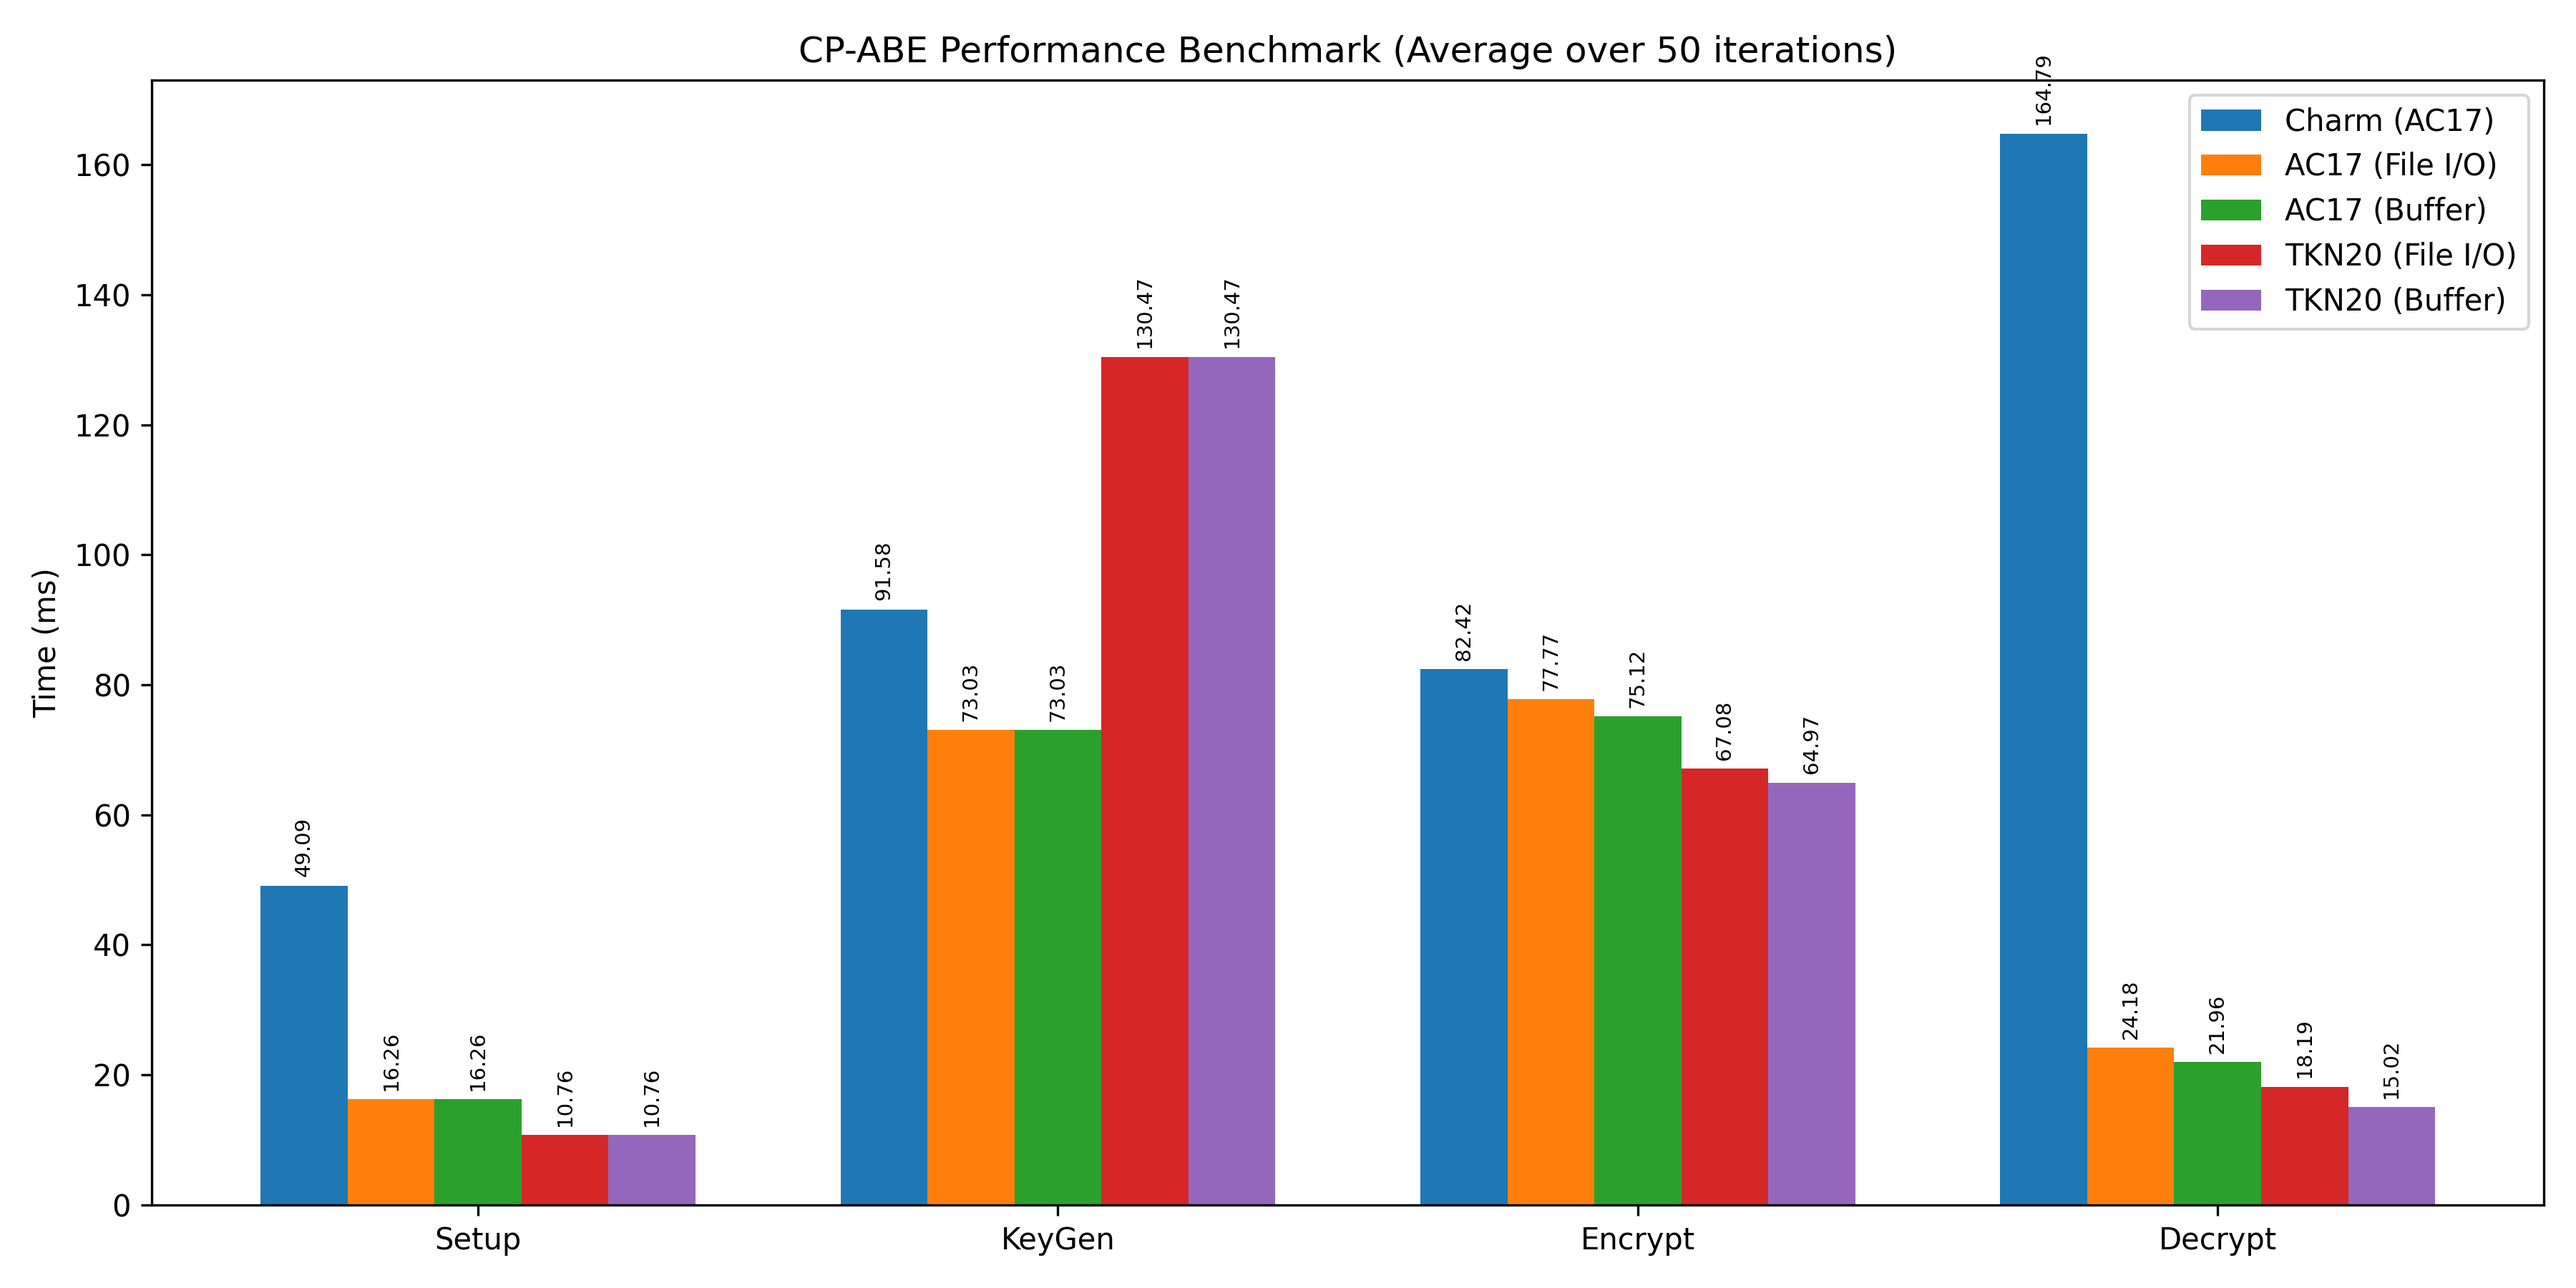
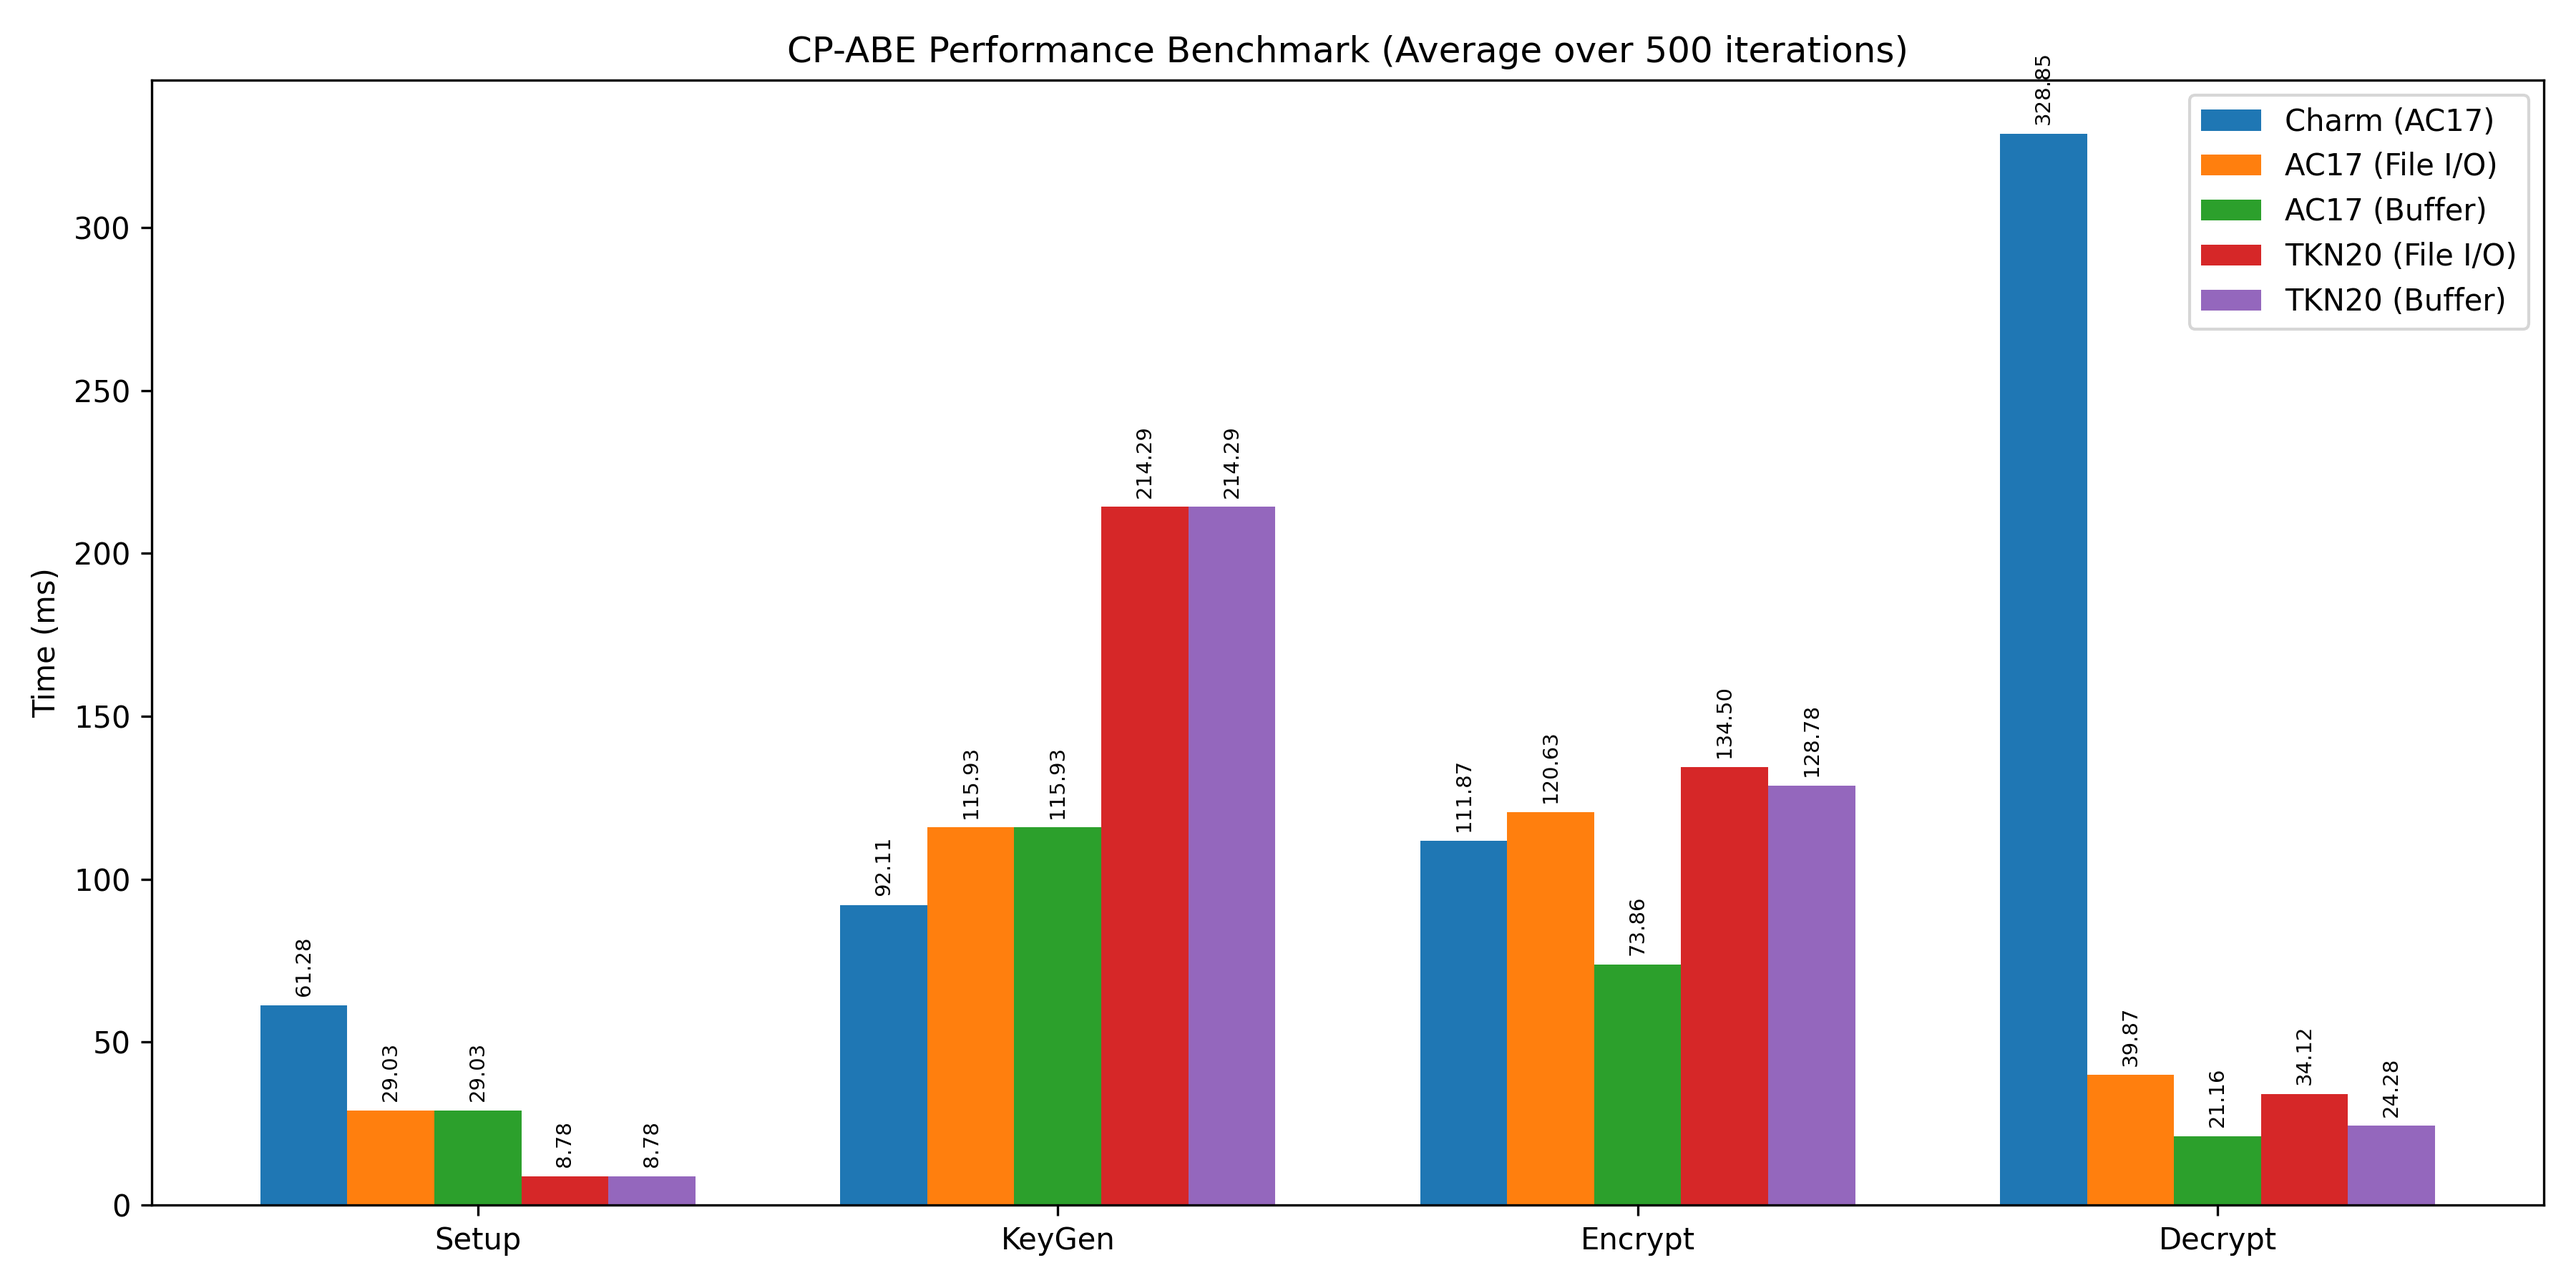
feat: add benchmarking script to evaluate performance of AC17 and TKN20 CP-ABE schemes

diff --git a/src/python/benchmark.py b/src/python/benchmark.py
@@ -31,7 +31,7 @@ from hybrid_cpabe import (
 )
 
 # Constants
-ITERATIONS = 50
+ITERATIONS = 500
 RESULTS_DIR = "results"
 TEMP_DIR = "temp_bench"
 POLICY = "(((((ATTR1 AND ATTR2) AND ATTR3) AND (ATTR4 OR ATTR5)) AND ((ATTR6 AND ATTR7) OR (ATTR8 AND ATTR9))) AND (ATTR10 OR ATTR11))"
